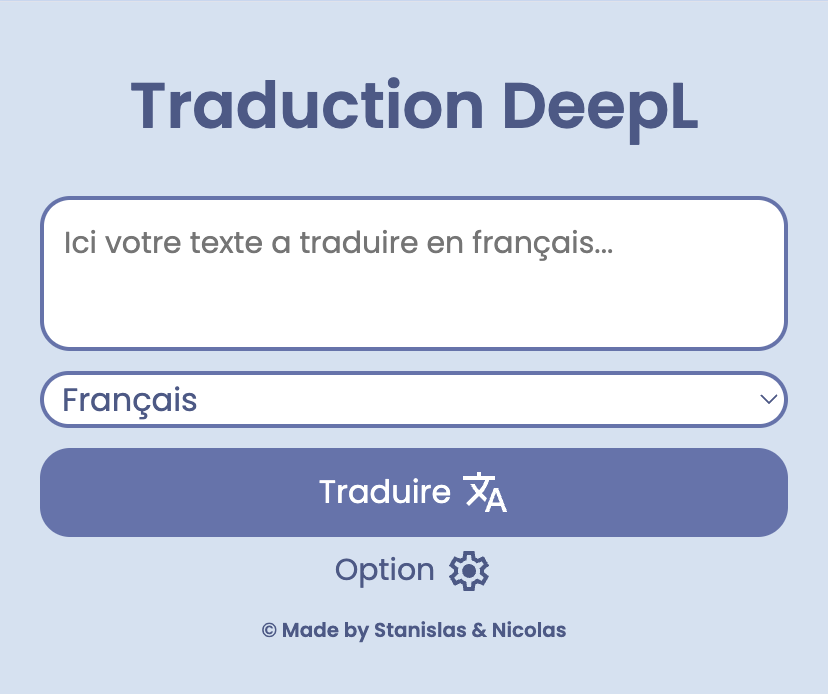
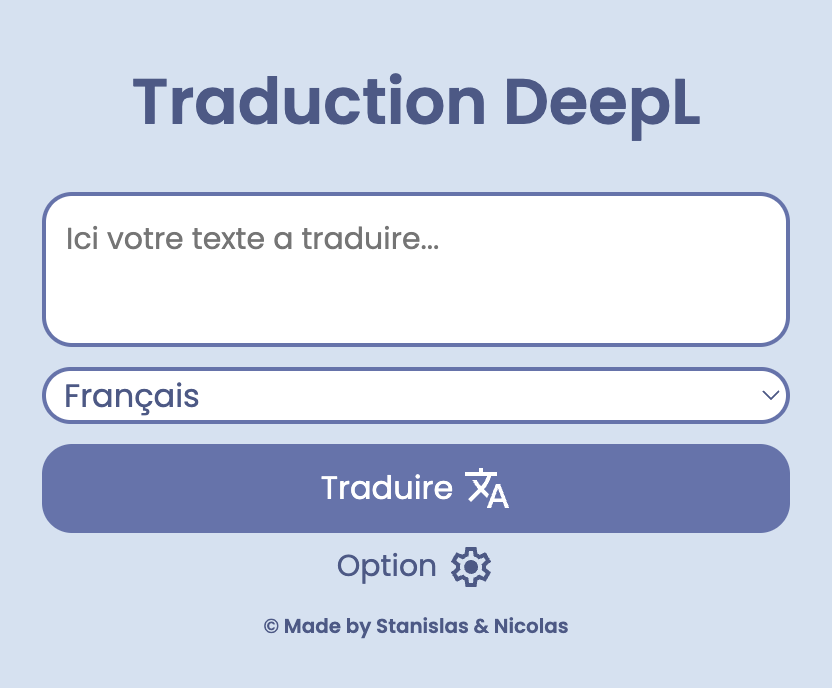
V1.3

diff --git a/src/html/popup.html b/src/html/popup.html
@@ -12,7 +12,7 @@
 
 <body>
     <h1>Traduction DeepL</h1>
-    <textarea id="inputText" rows="4" cols="50" placeholder="Ici votre texte a traduire en français..."></textarea>
+    <textarea id="inputText" rows="4" cols="50" placeholder="Ici votre texte a traduire..."></textarea>
     <select id="language">
         <option value="FR">Français</option>
         <option value="EN-US">Anglais (Americain)</option>
